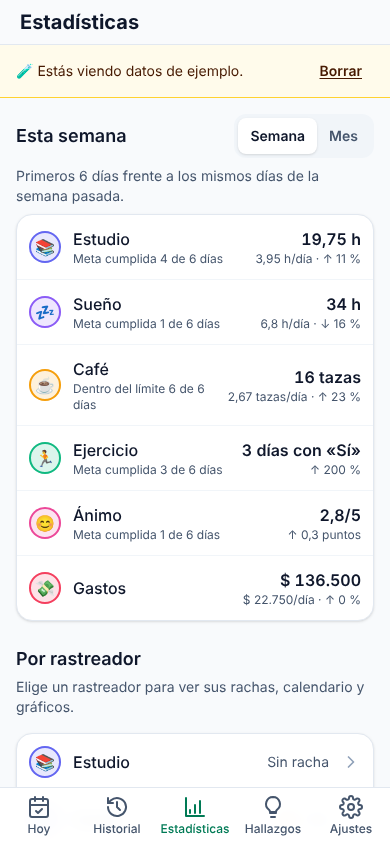
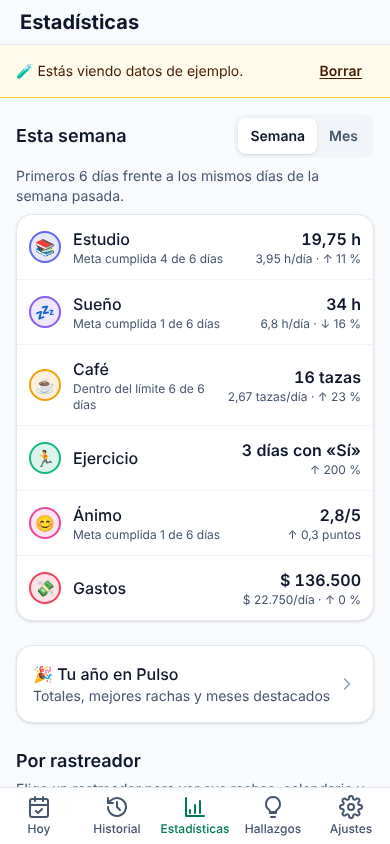
docs: README y capturas actualizados con las funciones de las rondas 4 a 7
Claude-Session: https://claude.ai/code/session_01Pgpgvw2P8hWUVjFrAesFgt

diff --git a/README.md b/README.md
@@ -17,28 +17,29 @@
 
 **Registrar**
 
-- **Rastreadores a tu medida:** contador, cantidad con unidad (horas, km, COP…), sí/no o escala 1–5, con ícono, color y meta diaria opcional: «al menos» (8 vasos de agua) o «como máximo» (3 tazas de café). Se pueden editar, archivar y ordenar arrastrando. Hay 12 plantillas comunes.
+- **Rastreadores a tu medida:** contador, cantidad con unidad (horas, km, COP…), sí/no o escala 1–5, con ícono, color, meta diaria «al menos» (8 vasos de agua) o «como máximo» (3 tazas de café), meta semanal («3 días por semana») y días de la semana en que aplica. Se pueden editar, archivar y ordenar arrastrando. Hay 12 plantillas comunes.
 - **Un toque:** toca un rastreador en «Hoy» para registrar su valor por defecto; mantén presionado (o usa «+») para ajustar valor, fecha, hora y nota. Todo se puede deshacer.
-- **Días anteriores:** flechas para moverte de día y registrar lo que olvidaste.
+- **Días anteriores:** flechas (o ← / → en el teclado) para moverte de día y registrar lo que olvidaste. En escritorio, las teclas 1–9 registran.
 - **Recordatorio diario** opcional dentro de la app.
 
 **Entender**
 
 - **Hoy:** progreso frente a cada meta y resumen de metas cumplidas.
-- **Historial:** registros por día, con filtro, edición y borrado.
-- **Estadísticas:** resumen de la semana o el mes frente al anterior (mismos días), rachas, calendario anual estilo GitHub (tocable), gráficos por día/semana/mes y promedio por día de la semana.
-- **Hallazgos:** correlaciones de Pearson entre rastreadores (mínimo 14 días en común), también con un día de desfase, explicadas en lenguaje simple, con valor p, diagrama de dispersión y la advertencia de que correlación no implica causalidad.
+- **Historial:** registros por día, con búsqueda por nota, filtro, edición y borrado.
+- **Estadísticas:** resumen de la semana o el mes frente al anterior (mismos días), rachas, calendario anual estilo GitHub (tocable), gráficos por día/semana/mes, promedio por día de la semana, calidad de datos (cobertura y huecos), métricas derivadas con fórmulas («Gastos ÷ Estudio») y el resumen anual «Tu año en Pulso».
+- **Hallazgos:** correlaciones de Pearson entre rastreadores (mínimo 14 días en común), también con un día de desfase, explicadas en lenguaje simple, con valor p, corrección por comparaciones múltiples (Benjamini–Hochberg), diagrama de dispersión, gráfico en el tiempo, exportación CSV y la advertencia de que correlación no implica causalidad.
 
 **Tus datos**
 
-- **CSV** en formato largo (`fecha, hora, rastreador, valor, unidad, nota`) para exportar e importar con validación por línea, y CSV ancho (un día por fila) para análisis.
+- **CSV** en formato largo (`fecha, hora, rastreador, valor, unidad, nota`) para exportar e importar con validación por línea, y CSV ancho (un día por fila) para análisis, que también se puede importar.
 - **Respaldo completo en JSON** para cambiar de celular, con recordatorio si llevas un mes sin respaldar.
 - **Datos de ejemplo** para explorar, marcados y borrables con un botón.
 
 **Calidad**
 
 - Modo claro/oscuro, accesible con teclado y lector de pantalla (probado con axe), respeta «reducir movimiento».
-- ~200 pruebas automáticas; lint, tipos, pruebas y build en cada push.
+- Más de 250 pruebas automáticas (incluidas de accesibilidad y de rendimiento con 3 años de datos); lint, tipos, pruebas y build en cada push.
+- Pantalla de error amigable, aviso de nueva versión y accesos directos al mantener presionado el ícono de la app.
 
 ## Cómo ejecutarlo
 
